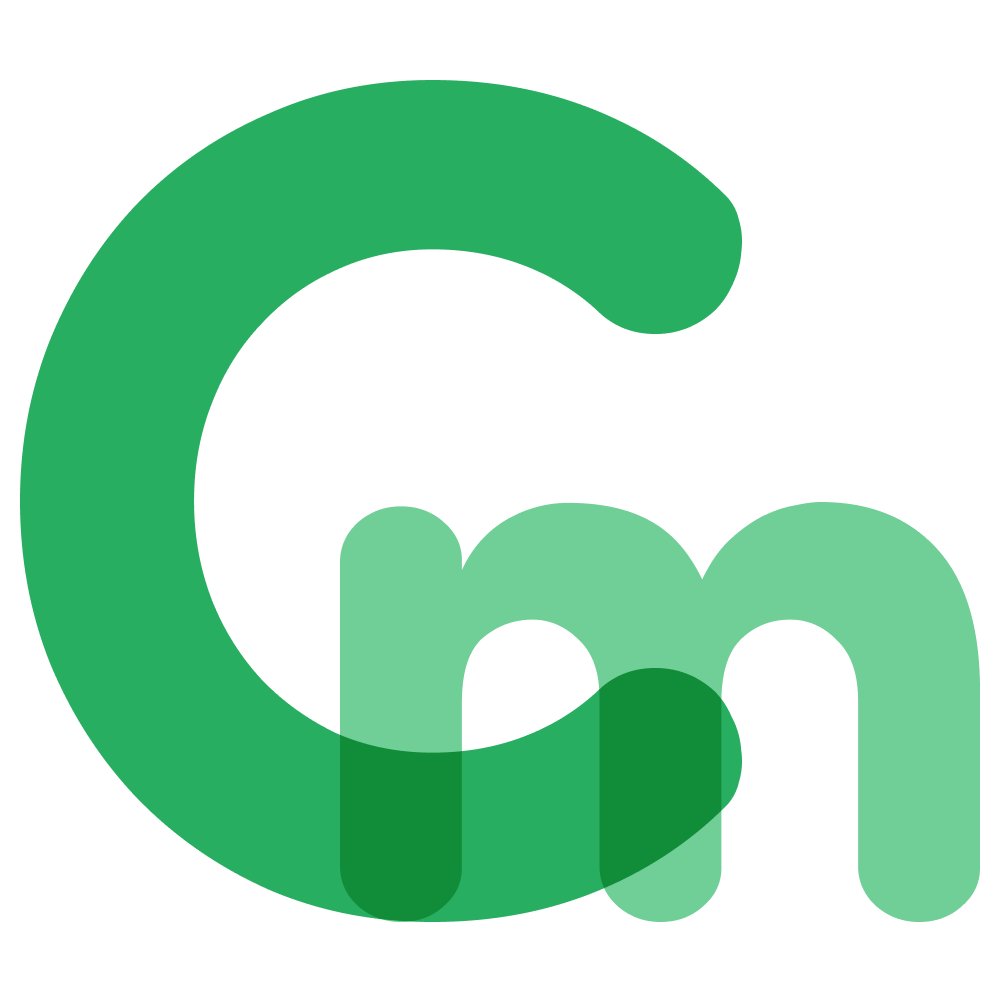
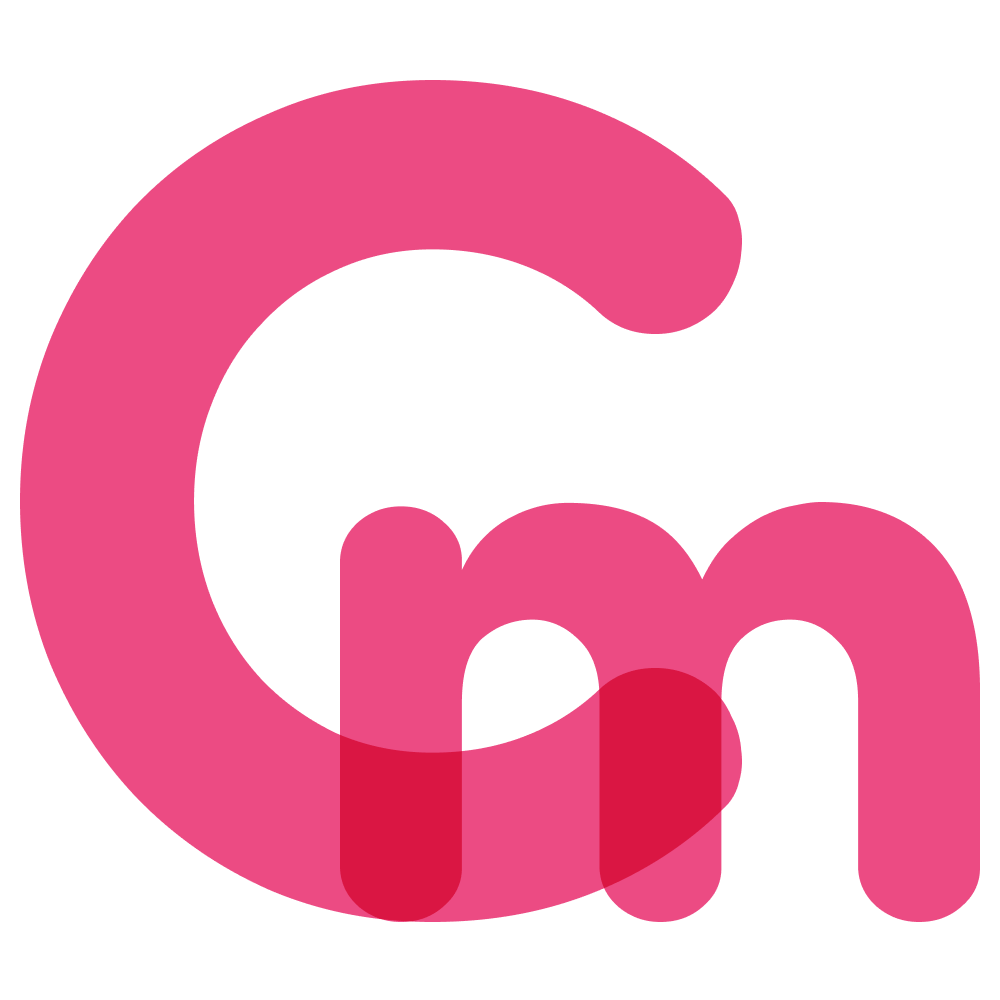
imgs

diff --git a/src/compary/Compary.svelte b/src/compary/Compary.svelte
@@ -4,10 +4,10 @@
 	const dispatch = createEventDispatcher();
 
 	export let value = 50,
-		thumbcolor = '#28ae60',
+		thumbcolor = 'hsl(339.1, 80.9%, 61%)',
 		img = {
-			left: 'https://assets.stoumann.dk/img/color.jpg',
-			right: 'https://assets.stoumann.dk/img/bw.jpg',
+			left: '../img/color.jpg',
+			right: '../img/bw.jpg',
 		};
 </script>
 
@@ -30,8 +30,8 @@
 		--h: 9;
 		--m: 1rem 0;
 		--w: 16;
-		--thumb-bgc: #28ae60;
-		--thumb-bgc-focus: hsla(0, 70%, 70%, 0.7);
+		--thumb-bgc: hsl(339.1, 80.9%, 61%);
+		--thumb-bgc-focus: hsl(339.1, 80.9%, 61%, 0.7);
 		--thumb-w: 2rem;
 		margin: var(--m);
 		position: relative;

diff --git a/esbuild.js b/esbuild.js
@@ -21,6 +21,7 @@ async function build_client() {
         minify: !DEV,
         incremental: DEV,
         sourcemap: DEV && 'inline',
+        // external: ['../img/*'],
         plugins: [
             sveltePlugin({
 

diff --git a/src/App.svelte b/src/App.svelte
@@ -18,6 +18,6 @@
 		max-width: 1000px;
 	}
 	b {
-		color: #28ae60;
+		color: hsl(339.1, 80.9%, 61%);
 	}
 </style>
